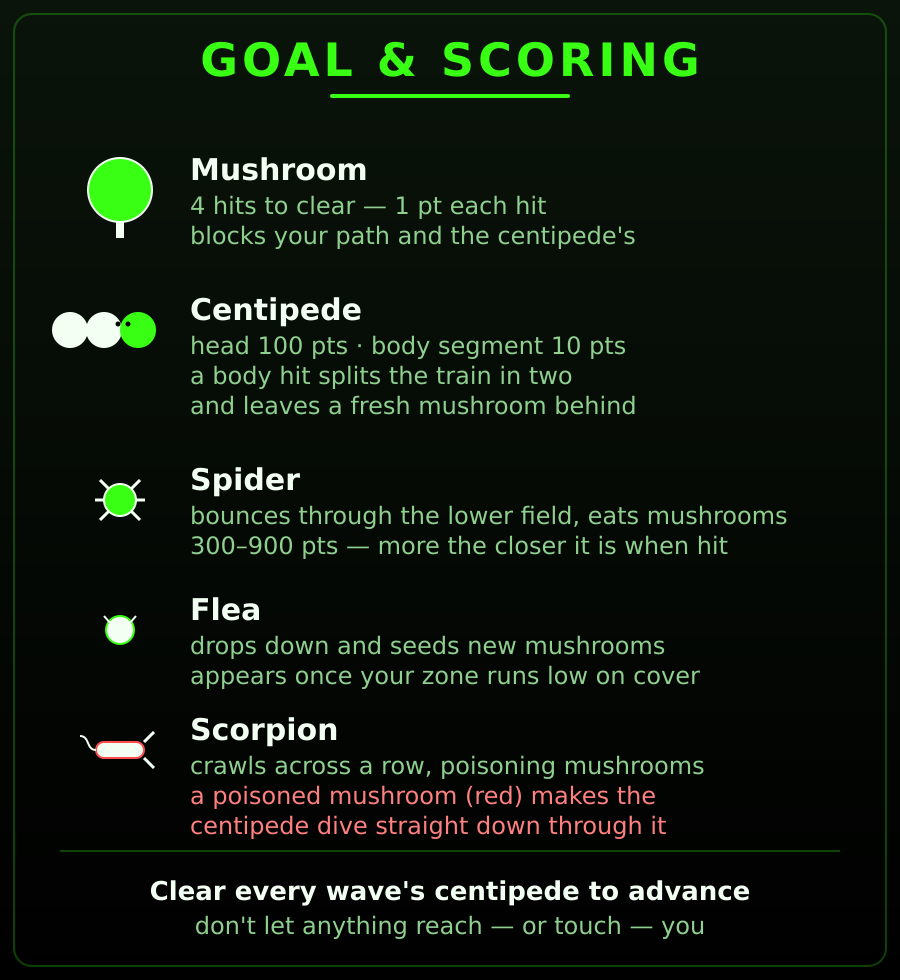
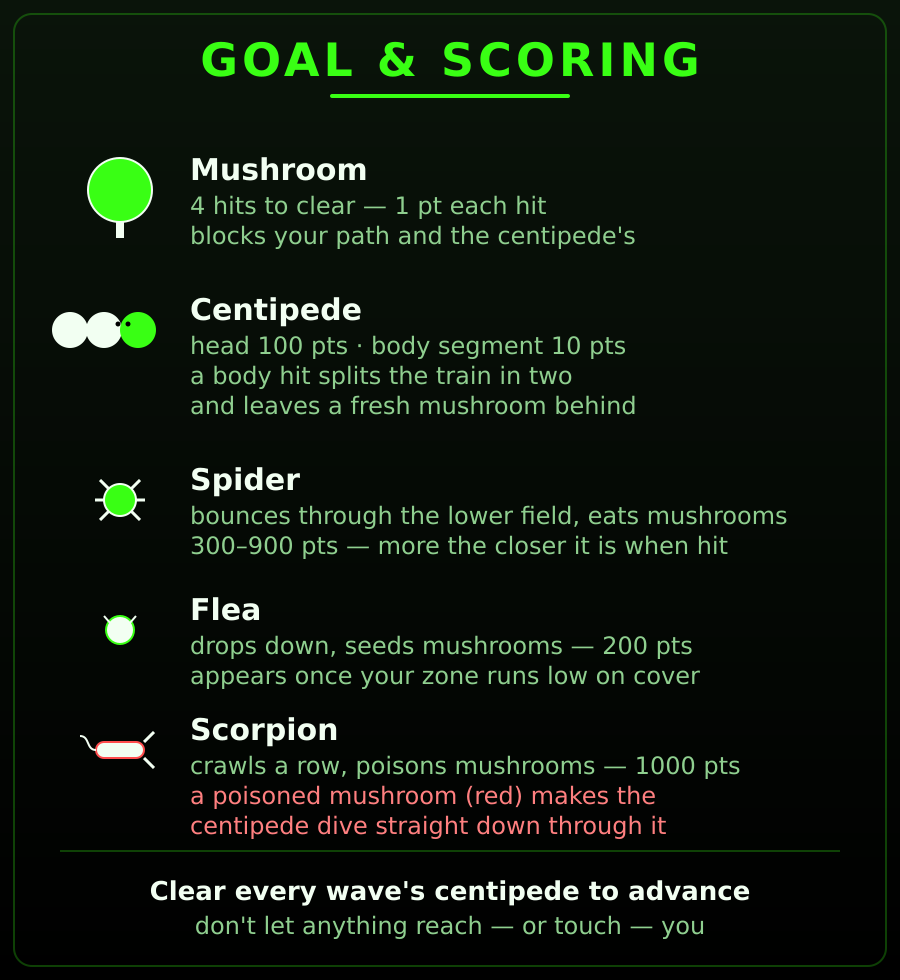
Show flea/scorpion points on the Goal page, add wave to Hall of Fame
The Goal & Scoring help page listed point values for mushroom/
centipede/spider but not flea (200) or scorpion (1000) - added.

Also show each Hall of Fame entry's wave (a "W<n>" column) alongside
its score, on both the Game Over and High Scores screens. Ranking
stays score-only (the classic-arcade convention, matches the 1981
original), but a high score from a long fight on an early wave no
longer looks unexplained next to a lower score from a later wave -
the wave was already stored per entry, just never shown.

Changed region(s): [[0.3111, 0.7653, 0.84, 0.7959], [0.3733, 0.6429, 0.7778, 0.6735]]

diff --git a/CLAUDE.md b/CLAUDE.md
@@ -76,6 +76,28 @@ BEIDE entstehenden Teilketten aus den AKTUELLEN Zellen ihrer Segmente neu
 gesät (`_reseed_path()`) — dadurch gibt es keinen sichtbaren Sprung beim
 Split, und beide Teilzüge bewegen sich ab sofort unabhängig weiter.
 
+**Was passiert, wenn eine Kette die unterste Reihe erreicht?** (Nutzerfrage
+2026-09-17, per Headless-Test in `_advance()` verifiziert, siehe unten) —
+`_advance()`s `else`-Zweig setzt bei einer Blockade `new_row := mini(head.y
++ 1, FieldGrid.field_bottom_row())`: die Kette rutscht **niemals** über die
+unterste Reihe hinaus, sie zickzackt dort stattdessen unbegrenzt weiter (dreht
+bei jeder Blockade — Feldrand oder Pilz — auf der Stelle um, OHNE dabei seitlich
+zu ziehen; genau ein Tick "Wendezeit" pro Richtungswechsel). Das gilt PRO
+KETTE unabhängig — landen mehrere Ketten dort (z. B. weil mehrere
+Skorpion-Gift-Tauchgänge stattgefunden haben), zickzacken sie alle
+unabhängig nebeneinander in derselben Reihe, ohne sich gegenseitig zu
+beeinflussen (keine Ketten-vs-Ketten-Kollision, nur Kette-vs-Spieler/Kugel).
+Das ist **kein Soft-Lock**: die Segmentanzahl der Welle ist fix
+(`INITIAL_SEGMENTS` = 12, Splits verteilen nur um, erzeugen nichts Neues) —
+jeder Treffer reduziert die Gesamtzahl unwiderruflich, die Welle wird also
+rechnerisch IMMER clearbar, sobald genug Treffer landen, egal wie lange die
+Reste unten herumzickzacken. Es ist schlicht die gefährlichste, aber auch am
+leichtesten treffbare Phase einer Welle (die Segmente sind exakt in der
+Spielerzone, die immer bis zur untersten Reihe reicht, s. o.) — seit der
+Respawn-Unverwundbarkeit (siehe unten) sollte das Draufhalten dort weniger
+tödlich sein als zuvor. Kein Grund zum vorzeitigen Abbruch/Neustart einer
+Welle.
+
 ## Bekannte offene Punkte
 
 - **Sound-Dateien sind vorerst nur Platzhalter** — `assets/sounds/*.wav`
@@ -135,6 +157,17 @@ Setzt die globale CLAUDE.md-Punkte 18 (Menü-Navigations-Konventionen) und 19
   Settings/Hilfe). `LineEdit` fängt `ui_accept` explizit ab (Gamepad-A würde
   sonst nichts auslösen, da `text_submitted` nur bei echtem Enter feuert).
   Ersetzt den früheren einzelnen `user://settings.cfg`-„hi"-Wert komplett.
+  **Rang-Kriterium bleibt reiner Score, nicht Score+Welle** (Nutzerfrage
+  2026-09-17: fühlte sich falsch an, dass ein Score aus einem langen Kampf
+  in einer frühen Welle einen Eintrag aus einer weiter fortgeschrittenen
+  Welle in der Liste überholt) — das ist die klassische Arcade-Konvention
+  (auch das Original von 1981 rankt rein nach Score, nicht nach erreichter
+  Welle) und wird bewusst NICHT geändert. Um das Ergebnis aber nachvollziehbar
+  statt mysteriös wirken zu lassen, zeigt `_render_hof()` (in `menus.gd`,
+  Game-Over- UND High-Scores-Screen) jetzt eine vierte Spalte „W<n>" mit der
+  in `HallOfFame.insert()` ohnehin schon gespeicherten, bisher aber nirgends
+  angezeigten Welle — der Vergleich "mehr Punkte bei Welle 2 vs. weniger
+  Punkte bei Welle 5" ist damit auf einen Blick sichtbar statt versteckt.
 
 ## Hilfe-Illustrationen (Stand 2026-09-17, ersetzt eine erste zu grobe Fassung)
 
